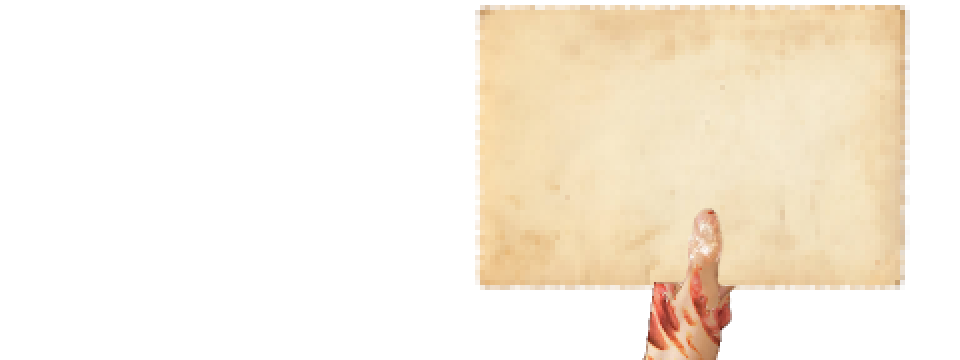
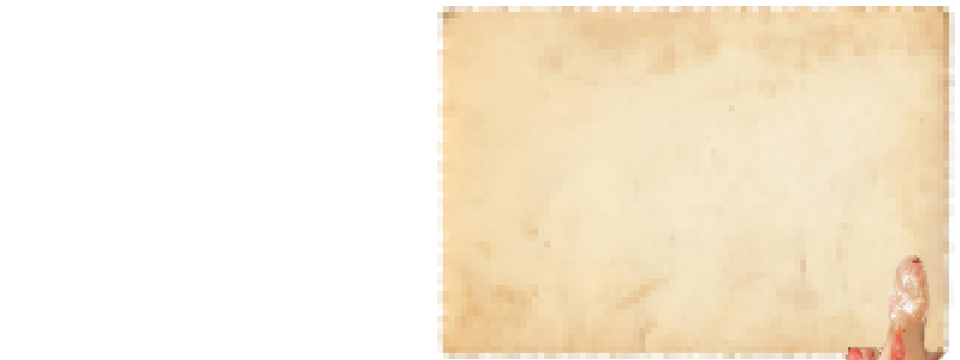
Off to work

diff --git a/src/scenes/betweenScenes/MaleBoxCloseUp.js b/src/scenes/betweenScenes/MaleBoxCloseUp.js
@@ -9,6 +9,7 @@ class MaleBoxCloseUp extends Phaser.Scene
         //add black bg so there isn't red clipping when the portal bg is rotating
         this.add.rectangle(0,0,width,playHeight,0x000000).setOrigin(0,0)
         this.sceneBG = this.add.image(width/2,playHeight/2,'portal').setOrigin(0.5,0.5)
+        this.letterHand = this.add.image(width/2,playHeight/2,'letterHand').setOrigin(0.5,0.5)
         this.bottle = new FindableObject(this,225,180,'mailBox','towerUnlockedScene',3).play('bottleAnim').setOrigin(0.5,0.5)
         
         //background rotate slowly
@@ -18,5 +19,45 @@ class MaleBoxCloseUp extends Phaser.Scene
             duration: 30000,
             repeat: -1
         })
+        this.typewriterEvent = null;
+        this.descriptionText = this.add.text(450,10,'',{
+            fontFamily:'Georgia',
+            fontSize: '20px',
+            color:'0xffffff'
+        }).setAngle(0)
+        //This is where you write the letter text.
+        this.typewriterEffect("Beneath the Leviathan Cross I stand,\nWhen cruelty grows, it’s us who feed it,\nWhen mercy is present, it’s us who grant it.\nWhen souls are shared, it’s us who bound it.\nWhen greed is fruitful, it’s us who suffer.\nWhen we are sick, it’s us who heals.\nWhen friends return, it’s us who greet.\nWhen the Leviathan judges, it’s us who stare.\n\nTo wait for salvation is to wait in vain,\nHumanity destroys, and humanity creates,\nThis is our burden, beneath the Leviathan.\nNo god made war, no god made greed.\nBeneath the Leviathan Cross I stand,\nKnowing the world was shaped by human hands.")
+        
+
+
     }
+
+    typewriterEffect(fullText) {
+    // kill the old typing event if one is still running
+    if (this.typewriterEvent) {
+        this.typewriterEvent.remove(false);
+        this.typewriterEvent = null;
+    }
+
+    let index = 0;
+    const speed = 10;
+
+    this.descriptionText.setText('');
+
+    this.typewriterEvent = this.time.addEvent({
+        delay: speed,
+        repeat: fullText.length - 1,
+        callback: () => {
+            this.descriptionText.setText(this.descriptionText.text + fullText[index]);
+            index++;
+
+            // cleanup when finished
+            if (index >= fullText.length) {
+                this.typewriterEvent = null;
+            }
+        }
+    });
+    }
+
+    
 }

diff --git a/src/scenes/ElevatorScenes/RobertArmCloseUp.js b/src/scenes/ElevatorScenes/RobertArmCloseUp.js
@@ -9,6 +9,7 @@ class RobertArmCloseUp extends Phaser.Scene
         //add black bg so there isn't red clipping when the portal bg is rotating
         this.add.rectangle(0,0,width,playHeight,0x000000).setOrigin(0,0)
         this.sceneBG = this.add.image(width/2,playHeight/2,'portal').setOrigin(0.5,0.5)
+        this.letterHand = this.add.image(width/2,playHeight/2,'letterHand').setOrigin(0.5,0.5)
         this.robertArm = new FindableObject(this,225,180,'robertArm','elevatorRoomPaintedScene',5).setOrigin(0.5,0.5). setScale(2).setAngle(45)
         // this.shard = new FindableObject(this,225,180,'mailBox','towerUnlockedScene',3).play('bottleAnim').setOrigin(0.5,0.5)
         

diff --git a/src/scenes/towerEntrance/MirrorShardCloseUp.js b/src/scenes/towerEntrance/MirrorShardCloseUp.js
@@ -9,6 +9,7 @@ class MirrorShardCloseUp extends Phaser.Scene
         //add black bg so there isn't red clipping when the portal bg is rotating
         this.add.rectangle(0,0,width,playHeight,0x000000).setOrigin(0,0)
         this.sceneBG = this.add.image(width/2,playHeight/2,'portal').setOrigin(0.5,0.5)
+        this.letterHand = this.add.image(width/2,playHeight/2,'letterHand').setOrigin(0.5,0.5)
         this.mirrorShard = new FindableObject(this,225,180,'mirrorShard','towerEntranceUnlockedScene',4).setOrigin(0.5,0.5)
         // this.shard = new FindableObject(this,225,180,'mailBox','towerUnlockedScene',3).play('bottleAnim').setOrigin(0.5,0.5)
         

diff --git a/src/scenes/ElevatorScenes/ElevatorRoomPaint.js b/src/scenes/ElevatorScenes/ElevatorRoomPaint.js
@@ -27,7 +27,7 @@ class ElevatorRoomPainted extends Phaser.Scene {
         this.gear4 = this.add.image(800,1000,'gear3').setOrigin(0.5,0.5).setScale(0.5)
 
         this.robertSitting = this.add.sprite(900,250,'robertTalking').setOrigin(0.5,0.5).play('robertTalkAnim')
-
+        
         //Logic for clicking the canvases and cycling through images until gear
         this.canvas1.on('pointerdown', () => {
             if (this.canvas1Clicks < 3) {
